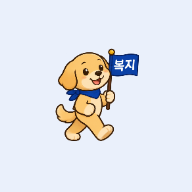
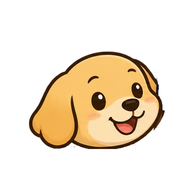
FE-디자인수정2-강준
랜딩·로고·카테고리·입력 화면 디자인 수정과 서울 전체 동 목록 추가.

- 랜딩: 문구/모션 멈추기 제거, 복길이 가운데 고정, 단계 말풍선, 볼드 처리
- 복길이: 걷는 4프레임에 서류를 안은 모습 합성(v002), 얼굴 로고·앱 아이콘
- 배경 전체 흰색, 입력창·성별 알약 버튼, 하단 버튼 불투명 고정
- 혜택 목록: 뒤로 버튼 제거, 즐겨찾기 별만, 카테고리를 실제 category 기준 8개+기타로 재편(이모티콘)
- 안내문 촬영: A4 비율 틀, 안내 문구 위치·줄 정리
- seoul.js: 25개 구 전체 동 목록(2021-04 행정동 자료)
- .gitignore에 .vercel, .env* 추가(.env.example 제외)

Changed region(s): [[0.125, 0.25, 0.875, 0.7812]]

diff --git a/FE/src/compact.css b/FE/src/compact.css
@@ -36,10 +36,10 @@
 
 .ws-ui-masthead { flex: none; min-height: 66px; display: flex; align-items: center; padding-right: 108px; }
 .ws-ui-brand { display: flex; align-items: center; gap: 8px; min-height: 48px; padding: 0; border: 0; background: none; font: inherit; color: inherit; cursor: pointer; }
-.ws-ui-brand-avatar { width: 34px; height: 34px; border-radius: 50%; background: var(--ws-color-info); display: grid; place-items: center; flex: none; }
-.ws-ui-brand-avatar .wm-bokgil-sprite { width: 26px; height: 34px; }
+.ws-ui-brand-avatar { width: 40px; height: 34px; display: grid; place-items: center; flex: none; }
+.ws-ui-brand-avatar img { width: 100%; height: auto; display: block; }
 .ws-ui-wordmark { font-size: 21px; color: var(--ws-color-primary-dark); }
-.ws-ui-wordmark-light { font-weight: 300; }
+.ws-ui-wordmark-light { font-weight: 800; }
 .ws-ui-wordmark-strong { font-weight: 800; }
 .ws-ui-demo { background: var(--ws-color-warm); color: var(--ws-color-warm-text); font-size: 12px; font-weight: 700; padding: 2px 8px; border-radius: 99px; }
 @media (max-width: 400px) { .ws-ui-demo { display: none; } }
@@ -163,13 +163,11 @@ select.ws-ui-input { cursor: pointer; }
 
 /* ---------- 로그인 ---------- */
 .ws-ui-page-welcome .ws-ui-shell {
-  background:
-    radial-gradient(circle at 80% 10%, var(--ws-color-info), transparent 55%),
-    var(--ws-color-welcome);
+  background: var(--ws-color-welcome);
 }
 .ws-login-accent { color: var(--ws-color-primary); }
 .ws-login-desc { font-size: 1.05em; text-align: left; }
-.ws-login-art { position: relative; flex: 1 1 auto; min-height: 160px; max-height: 340px; width: 100%; margin: auto; display: grid; place-items: center; overflow: hidden; }
+.ws-login-art { position: relative; flex: 1 1 auto; min-height: 160px; width: 100%; margin: 0; display: grid; place-items: center; overflow: hidden; }
 .ws-login-halo { position: absolute; border-radius: 50%; }
 .ws-login-halo-a { width: 78%; aspect-ratio: 1; background: var(--ws-color-halo); }
 .ws-login-halo-b { width: 56%; aspect-ratio: 1; background: var(--ws-color-halo-warm); }
@@ -184,8 +182,7 @@ select.ws-ui-input { cursor: pointer; }
 .ws-login-float-02 { top: 42%; right: 0; animation-delay: -1.3s; }
 .ws-login-float-03 { bottom: 12%; left: 0; animation-delay: -2.6s; }
 @keyframes ws-login-bob { 50% { transform: translateY(-6px); } }
-.wm-bokgil-guide { position: relative; height: 92%; max-width: 54%; aspect-ratio: 3 / 4; animation: wm-bokgil-stroll 6s ease-in-out infinite; }
-.wm-bokgil-path { position: absolute; left: 8%; bottom: 10%; width: 84%; height: 3px; background: repeating-linear-gradient(90deg, var(--ws-color-road) 0 14px, transparent 14px 28px); background-size: 28px 3px; animation: wm-bokgil-road 0.8s linear infinite; }
+.wm-bokgil-guide { position: relative; height: 100%; max-width: 60%; aspect-ratio: 3 / 4; }
 .ws-login-caption { display: flex; align-items: center; justify-content: space-between; gap: 8px; color: var(--ws-color-muted); font-size: 0.9em; }
 .ws-login-actions { display: grid; gap: 8px; }
 .ws-login-kakao { background: var(--ws-color-kakao); border-color: var(--ws-color-kakao); color: var(--ws-color-kakao-text); }
@@ -207,8 +204,6 @@ select.ws-ui-input { cursor: pointer; }
   50% { background-position: 66.666667% 0; }
   75% { background-position: 100% 0; }
 }
-@keyframes wm-bokgil-stroll { 0%, 100% { transform: translateX(-9px); } 50% { transform: translateX(9px); } }
-@keyframes wm-bokgil-road { to { background-position: -28px 0; } }
 
 .ws-progress-bokgil { display: flex; align-items: center; gap: 10px; padding-top: 46px; }
 .ws-progress-bokgil-track { position: relative; flex: 1; height: 13px; background: var(--ws-color-track); border: 1px solid var(--ws-color-line); border-radius: 99px; }
@@ -237,7 +232,8 @@ select.ws-ui-input { cursor: pointer; }
 .wm-categories { display: grid; grid-template-columns: repeat(2, minmax(0, 1fr)); gap: 8px; }
 .wm-categories button { min-height: 48px; padding: 8px 12px; font: inherit; font-weight: 700; color: var(--ws-color-text); background: var(--ws-color-card); border: 1px solid var(--ws-color-chip-line); border-radius: 99px; cursor: pointer; }
 .wm-categories button[aria-pressed='true'] { color: #fff; background: var(--ws-color-primary-soft); border-color: var(--ws-color-primary-soft); }
-.wm-categories-modal button { display: grid; gap: 2px; border-radius: 16px; }
+.wm-categories-modal button { display: grid; justify-items: center; gap: 2px; border-radius: 16px; }
+.wm-categories-modal button i { font-style: normal; font-size: 1.6em; line-height: 1.1; }
 .wm-categories-modal button span { font-size: 0.85em; font-weight: 400; color: var(--ws-color-muted); }
 .wm-cat-all { grid-column: 1 / -1; }
 
@@ -302,7 +298,6 @@ select.ws-ui-input { cursor: pointer; }
 
 /* ---------- 모션 감소 ---------- */
 @media (prefers-reduced-motion: reduce) {
-  .wm-bokgil-sprite, .wm-bokgil-guide, .wm-bokgil-path { animation: none; }
   .wm-slider-track, .ws-progress-bokgil-fill, .ws-progress-bokgil-walker, .ws-ui-button { transition: none; }
   .ws-ui-button:not(:disabled):hover { transform: none; }
 }

diff --git a/FE/src/screens/BenefitsScreen.jsx b/FE/src/screens/BenefitsScreen.jsx
@@ -5,13 +5,26 @@ import { mockCatalog, mockResult } from '../mock.js'
 import { ageText, buildAlerts, daysLeft, judge, koreanDate } from '../alerts.js'
 import { fetchPolicies, hasBackend } from '../api.js'
 
-const CATEGORIES = ['연금', '지원금', '대출', '돌봄/서비스']
+const MAX_SHOWN = 30
+const GROUPS = [
+  ['생활·금융', '💰', ['서민금융', '생활지원'], /연금|대출|융자|수당|지원금|바우처/],
+  ['주거·에너지', '🏠', ['주거', '에너지'], /주거|임대|월세|전세|난방|에너지/],
+  ['임신·출산·보육', '👶', ['임신·출산', '보육', '입양·위탁'], /출산|임산부|산모|신생아|보육|양육|영유아|아동/],
+  ['교육', '🎓', ['교육'], /교육|학자금|장학|학습/],
+  ['일자리', '💼', ['일자리'], /일자리|취업|창업|고용/],
+  ['건강', '🩺', ['신체건강', '정신건강'], /건강|접종|검진|치료|의료|재활/],
+  ['돌봄·안전', '🤝', ['보호·돌봄', '안전·위기', '법률'], /돌봄|서비스|요양|안부|활동지원|위기|폭력|노숙/],
+  ['문화·여가', '🎭', ['문화·여가'], /문화|여가|체육|관광/],
+]
+const OTHER = ['기타', '📌']
+export const CATEGORIES = [...GROUPS.map(([label, icon]) => [label, icon]), OTHER]
+export const iconOf = (label) => CATEGORIES.find(([l]) => l === label)?.[1] ?? ''
 
 export function categoryOf(p) {
-  if (p.name.includes('연금')) return '연금'
-  if (/대출|융자/.test(p.name)) return '대출'
-  if (/돌봄|서비스|요양/.test(p.name)) return '돌봄/서비스'
-  return '지원금'
+  const themes = (p.category ?? '').split(',').map((t) => t.trim())
+  const g = [...GROUPS.slice(1), GROUPS[0]].find(([, , list]) => themes.some((t) => list.includes(t)))
+  if (g) return g[0]
+  return (GROUPS.find(([, , , re]) => re.test(p.name)) ?? OTHER)[0]
 }
 
 function Slider({ items, idx, setIdx, favorites, onFavorite, onOpen }) {
@@ -98,7 +111,10 @@ export default function BenefitsScreen({ profile, category, setCategory, alertOn
   const real = (cat.rows ?? []).filter(mine)
   const sample = !loading && real.length === 0
   const list = sample ? mockResult.programs.filter(mine).map((p) => ({ ...p, isSample: true })) : real
-  const shown = list.filter((p) => category === '전체' || categoryOf(p) === category)
+  const matched = [...new Map(list.map((p) => [p.name, p])).values()]
+    .filter((p) => category === '전체' || categoryOf(p) === category)
+    .sort((a, b) => Number(b.gu === profile.gu) - Number(a.gu === profile.gu))
+  const shown = matched.slice(0, MAX_SHOWN)
   const current = Math.min(idx, Math.max(0, shown.length - 1))
 
   useEffect(() => {
@@ -186,7 +202,7 @@ export default function BenefitsScreen({ profile, category, setCategory, alertOn
       )}
       {sample && <p className="ws-ui-note" role="note">현재 신청 가능한 실제 혜택이 없어 이해를 돕기 위한 가데이터 예시를 보여드려요.</p>}
       <div className="wm-category-row">
-        <strong>{category ?? '카테고리를 선택해 주세요'}</strong>
+        <strong>{category ? `${category === '전체' ? '🗂' : iconOf(category)} ${category}` : '카테고리를 선택해 주세요'}</strong>
         <button ref={triggerRef} type="button" className="ws-ui-button ws-ui-secondary" onClick={() => dialogRef.current.showModal()}>다른 카테고리 살펴보기</button>
       </div>
       {cat.error && <p className="ws-ui-error" role="alert">혜택 목록을 불러오지 못했어요. 잠시 후 다시 시도해 주세요.</p>}
@@ -199,6 +215,9 @@ export default function BenefitsScreen({ profile, category, setCategory, alertOn
           <p>다른 카테고리를 선택하거나 안내문을 촬영해 주세요.</p>
         </Card>
       )}
+      {matched.length > shown.length && (
+        <p className="ws-ui-muted">혜택이 많아서 앞의 {MAX_SHOWN}개만 보여드려요. 다른 카테고리도 살펴보세요.</p>
+      )}
       <p className="ws-ui-muted wm-privacy">소득·거주 조건에 따라 실제 대상은 다를 수 있어요.</p>
 
       <dialog ref={dialogRef} className="wm-dialog" aria-labelledby="wm-cat-title" onCancel={(e) => { e.preventDefault(); closeCategories() }}>
@@ -208,8 +227,9 @@ export default function BenefitsScreen({ profile, category, setCategory, alertOn
         </div>
         <p>관심 있는 카테고리를 골라주세요.<br />나중에 다른 혜택도 살펴볼 수 있어요.</p>
         <div className="wm-categories wm-categories-modal">
-          {['전체', ...CATEGORIES].map((label) => (
+          {[['전체', '🗂'], ...CATEGORIES].map(([label, icon]) => (
             <button key={label} type="button" className={label === '전체' ? 'wm-cat-all' : undefined} onClick={() => pick(label)}>
+              <i aria-hidden="true">{icon}</i>
               <strong>{label}</strong>
               <span>{count(label)}개 혜택</span>
             </button>

diff --git a/FE/src/api.js b/FE/src/api.js
@@ -2,11 +2,11 @@ import { GU } from './seoul.js'
 import { deadlineText, koreanDate } from './alerts.js'
 import { supabase } from './supabaseClient.js'
 
-const URL = import.meta.env?.VITE_SUPABASE_URL
+const SUPABASE_URL = import.meta.env?.VITE_SUPABASE_URL
 const KEY = import.meta.env?.VITE_SUPABASE_PUBLISHABLE_KEY || import.meta.env?.VITE_SUPABASE_ANON_KEY
 const ANALYZE_URL = import.meta.env?.VITE_ANALYZE_URL
 
-export const hasBackend = Boolean(URL && KEY)
+export const hasBackend = Boolean(SUPABASE_URL && KEY)
 export const hasAnalyze = Boolean(ANALYZE_URL)
 
 const authHeaders = async () => {
@@ -22,21 +22,28 @@ export const toProgram = (r) => ({
   name: r.name,
   summary: r.summary ?? '',
   eligibility: r.eligibility ?? '',
-  minAge: r.min_age ?? undefined,
-  maxAge: r.max_age ?? undefined,
-  gu: r.source === 'local' ? r.sgg || undefined : undefined,
+  category: r.category ?? '',
+  minAge: r.minAge ?? undefined,
+  maxAge: r.maxAge ?? undefined,
+  gu: GU.includes(r.gu) ? r.gu : undefined,
   deadline: r.deadline ?? '',
   office: r.office ?? '',
   docs: r.docs ?? [],
   source: '공공데이터포털 · 복지서비스',
-  sourceUrl: r.detail_link ?? '',
+  sourceUrl: r.sourceUrl ?? '',
 })
 
+const POLICY_SELECT = 'name,summary,category,minAge:min_age,maxAge:max_age,deadline,docs,office,eligibility,sourceUrl:detail_link,gu:sgg'
+
+// 백엔드 요청 형식: apikey만 보내고(Authorization 없음), eligibility가 비어 있는 정책은 제외한다.
 export async function fetchPolicies({ age }) {
-  const filter = `(or(min_age.is.null,min_age.lte.${age}),or(max_age.is.null,max_age.gte.${age}),or(source.eq.central,ctpv.eq.서울특별시))`
-  const res = await fetch(`${URL}/rest/v1/policies?select=*&limit=500&and=${encodeURIComponent(filter)}`, {
-    headers: await authHeaders(),
+  const params = new URLSearchParams({
+    select: POLICY_SELECT,
+    limit: '1000',
+    and: `(or(min_age.is.null,min_age.lte.${age}),or(max_age.is.null,max_age.gte.${age}))`,
+    eligibility: 'not.is.null',
   })
+  const res = await fetch(`${SUPABASE_URL}/rest/v1/policies?${params}`, { headers: { apikey: KEY } })
   if (!res.ok) throw new Error(`policies ${res.status}`)
   return (await res.json()).map(toProgram)
 }
@@ -97,7 +104,7 @@ export function fromModel(raw) {
 export async function analyzeRemote({ file, signal }) {
   const body = new FormData()
   body.append('file', file)
-  const sameProject = URL && new URL(ANALYZE_URL, window.location.origin).origin === new URL(URL).origin
+  const sameProject = SUPABASE_URL && new URL(ANALYZE_URL, window.location.origin).origin === new URL(SUPABASE_URL).origin
   const res = await fetch(ANALYZE_URL, { method: 'POST', body, signal, headers: sameProject ? await authHeaders() : {} })
   if (!res.ok) {
     const code = await res.json().then((j) => j.code, () => undefined)

diff --git a/FE/src/components/UI.jsx b/FE/src/components/UI.jsx
@@ -1,4 +1,3 @@
-import AnimatedBokgil from './AnimatedBokgil.jsx'
 
 export function Button({ kind = 'primary', type = 'button', className = '', ...props }) {
   return <button type={type} className={`ws-ui-button ws-ui-${kind} ${className}`.trim()} {...props} />
@@ -19,7 +18,7 @@ export function Screen({ title, onBack, onHome, header, children, footer, varian
       <div className="ws-ui-shell">
         <header className="ws-ui-masthead">
           <button type="button" className="ws-ui-brand" onClick={() => onHome?.()} aria-label="복지메이트 홈으로">
-            <span className="ws-ui-brand-avatar"><AnimatedBokgil still /></span>
+            <span className="ws-ui-brand-avatar"><img src={`${import.meta.env.BASE_URL}codex-images/bokgil-face.png`} alt="" /></span>
             <span className="ws-ui-wordmark">
               <span className="ws-ui-wordmark-light">복지</span>
               <span className="ws-ui-wordmark-strong">메이트</span>
@@ -52,10 +51,12 @@ export const STATUS = {
   blurry: '사진이 흐려요. 카메라를 잠시 멈추고 글자가 또렷해졌을 때 다시 찍어 주세요.',
   cropped: '안내문 일부가 잘렸어요. 문서의 네 모서리가 모두 보이게 다시 찍어 주세요.',
   timeout: '응답이 늦어지고 있어요. 잠시 후 다시 시도해 주세요.',
+  tooLarge: '파일이 너무 커요. 더 작은 사진이나 PDF로 올려 주세요.',
+  unsupported: '이 파일은 읽을 수 없어요. 사진(JPG, PNG)이나 PDF로 올려 주세요.',
   camera: '카메라를 열 수 없어요. 저장된 사진을 올려주세요.',
 }
 
-const CODES = { UNREADABLE: 'unreadable', BLURRY: 'blurry', CROPPED: 'cropped', TIMEOUT: 'timeout' }
+const CODES = { UNREADABLE: 'unreadable', BLURRY: 'blurry', CROPPED: 'cropped', TIMEOUT: 'timeout', TOO_LARGE: 'tooLarge', UNSUPPORTED: 'unsupported' }
 export const statusFor = (err) => CODES[err?.code] ?? 'error'
 
 export function StatusBox({ state, action, onAction }) {

diff --git a/FE/src/screens/LoginScreen.jsx b/FE/src/screens/LoginScreen.jsx
@@ -26,7 +26,7 @@ export default function LoginScreen({ onLogin, error }) {
         </div>
       }
     >
-      <p className="ws-login-desc">어려운 안내문부터 준비 서류까지.<br />길잡이 복길이가 함께 걸어갈게요.</p>
+      <p className="ws-login-desc">어려운 안내문부터 준비 서류까지.<br />길잡이 <strong>복길이</strong>가 함께 걸어갈게요.</p>
       <div className="ws-login-art" aria-hidden="true">
         <span className="ws-login-halo ws-login-halo-a" />
         <span className="ws-login-halo ws-login-halo-b" />
@@ -36,7 +36,6 @@ export default function LoginScreen({ onLogin, error }) {
           <circle cx="258" cy="62" r="7" />
         </svg>
         <div className="wm-bokgil-guide"><AnimatedBokgil /></div>
-        <div className="wm-bokgil-path" />
         {STEPS.map(([n, t, d]) => (
           <div key={n} className={`ws-login-float ws-login-float-${n}`}>
             <span><strong>{t}</strong>{d}</span>

diff --git a/FE/src/alerts.test.js b/FE/src/alerts.test.js
@@ -57,9 +57,10 @@ test('docGuide', () => {
 
 test('toProgram', async () => {
   const { toProgram } = await import('./api.js')
-  const p = toProgram({ name: 'X', min_age: 65, max_age: null, source: 'local', sgg: '마포구', deadline: null, docs: null })
-  assert.deepEqual([p.minAge, p.maxAge, p.gu, p.deadline, p.docs], [65, undefined, '마포구', '', []])
-  assert.equal(toProgram({ name: 'Y', source: 'central', sgg: '종로구' }).gu, undefined)
+  const p = toProgram({ name: 'X', minAge: 65, maxAge: null, gu: '마포구', deadline: null, docs: null, office: null, sourceUrl: 'u' })
+  assert.deepEqual([p.minAge, p.maxAge, p.gu, p.deadline, p.docs, p.office, p.sourceUrl], [65, undefined, '마포구', '', [], '', 'u'])
+  assert.equal(toProgram({ name: 'Y', gu: '서울특별시교육청' }).gu, undefined)
+  assert.equal(toProgram({ name: 'Z', gu: null }).gu, undefined)
 })
 
 test('scan helpers', async () => {

diff --git a/FE/src/tokens.css b/FE/src/tokens.css
@@ -1,5 +1,5 @@
 :root {
-  --ws-color-bg: #f8f7f3;
+  --ws-color-bg: #ffffff;
   --ws-color-text: #202c40;
   --ws-color-primary: #2448a5;
   --ws-color-primary-text: #ffffff;
@@ -15,14 +15,14 @@
   --ws-color-warm-text: #794019;
   --ws-color-danger: #a33128;
   --ws-color-success: #286442;
-  --ws-color-page: #edece7;
+  --ws-color-page: #f1f3f7;
   --ws-color-shell-line: #e4e3df;
   --ws-color-chip-line: #d6deeb;
   --ws-color-track: #e7eaf1;
   --ws-color-road: #9bafd5;
   --ws-color-star: #f6c34a;
   --ws-color-star-bg: #fff2cb;
-  --ws-color-welcome: #f2f5fc;
+  --ws-color-welcome: #ffffff;
   --ws-color-halo: #e2eaf9;
   --ws-color-halo-warm: #f9f4ea;
   --ws-color-kakao: #fee500;

diff --git a/FE/src/App.jsx b/FE/src/App.jsx
@@ -135,6 +135,7 @@ export default function App() {
   }
 
   const saveProfileRemote = async (p) => {
+    if (!userId && import.meta.env.DEV) return saveProfile(p)
     if (!userId) throw new Error('로그인이 필요합니다')
     await storeProfile(userId, p)
     saveProfile(p)
@@ -216,6 +217,10 @@ export default function App() {
   }
 
   const login = async (provider) => {
+    if (import.meta.env.DEV && (!supabase || window.location.search.includes('demo'))) {
+      setScreen('draft')
+      return
+    }
     if (provider !== 'google') {
       setAuthError('이 로그인 방법은 준비 중이에요. 구글로 시작해 주세요.')
       return

diff --git a/FE/src/components/AnimatedBokgil.jsx b/FE/src/components/AnimatedBokgil.jsx
@@ -1,4 +1,4 @@
-const SHEET = import.meta.env.BASE_URL + 'codex-images/bokgil-retriever-walk-v001.png'
+const SHEET = import.meta.env.BASE_URL + 'codex-images/bokgil-retriever-walk-v002.png'
 
 export default function AnimatedBokgil({ className = '', still = false }) {
   return (

diff --git a/FE/public/sw.js b/FE/public/sw.js
@@ -1,4 +1,4 @@
-const CACHE = 'bokji-v1'
+const CACHE = 'bokji-v2'
 
 self.addEventListener('install', () => self.skipWaiting())
 

diff --git a/FE/프론트-강준.md b/FE/프론트-강준.md
@@ -32,7 +32,7 @@
 - [x] 모델 연동 준비: `src/api.js`의 `fromModel`이 모델 팀 출력(`easySummary, programs[19개 키]`)을 화면 형식으로 변환(기한 원문 `periodText`, 지원 금액 `benefit`, 소득·재산 원문, 조건부 서류 `extraDocs` 반영). 서울 구가 아닌 지역(`gu`)은 판정에 쓰지 않고 "거주 지역"으로 표시. 모델 샘플 4건(`src/fixtures/model-sample.json`)으로 화면 확인, 파일 이름에 `model-1`~`model-4`를 넣어 올리면 재현
 - [x] `analyzeRemote`: `VITE_ANALYZE_URL`이 있으면 `FormData(file)`로 POST(요청 형식은 가정, 백엔드와 확정 필요), 실패 시 `{ code }`로 사유 구분. 없으면 목업
 - [ ] 실제 `analyze` 주소를 받아 PDF 업로드·촬영 테스트
-- [ ] 업로드 전 이미지 축소(긴 변 1568px, JPEG)
+- [x] 업로드 전 이미지 축소(긴 변 1568px, JPEG): `src/scan.js`로 구현됨(3단계)
 - [ ] 음성 안내(Web Speech) — 명세 8장은 만들지 않기로 한 항목이라 별도 결정 필요
 
 ## 백엔드·모델에 요청 (프론트가 이렇게 쓰고 있으니 다르면 알려주세요)
@@ -65,9 +65,41 @@
 - 소셜 로그인(실제 인증)과 Supabase 연결을 위해 백엔드 담당이 프론트 파일을 직접 수정하기로 함(강준 승인). 범위는 `LoginScreen.jsx`, `App.jsx`의 로그인 처리, 새 Supabase 연결 파일. 수정 후 강준이 pull 받아 빌드·화면 확인
 - 실제 로그인이 생기면 로그인 화면의 "실제 로그인 없이 체험해요" 문구와 개인정보 원칙(생년월일 원본 미저장, 닉네임만) 확인 필요
 
+## 백엔드 로그인 연동 확인 (pull 후 점검)
+
+- 조계진이 구글 로그인을 Supabase OAuth로 연결(`src/supabaseClient.js`, `App.jsx`). 카카오·네이버 버튼은 "준비 중" 안내. 패키지 `@supabase/supabase-js`가 추가되어 pull 후 `npm install` 필요(명세의 "외부 라이브러리 금지"는 팀 결정으로 예외)
+- 점검에서 찾아 고침: `api.js`의 `const URL`이 브라우저 `new URL()`을 가려 `analyzeRemote`가 항상 실패하던 버그 → `SUPABASE_URL`로 이름 변경
+- 고침: Supabase 설정이 없으면 로그인 버튼이 모두 오류만 내서 앱에 들어갈 수 없었음 → 개발 서버(`npm run dev`)에서만 설정이 없을 때 내 정보 화면으로 진행. 배포본은 그대로 엄격
+- 확인: 가짜 `analyze` 서버로 `multipart` 호출, 응답 변환, `422 {code:BLURRY}` 안내까지 동작. 실제 구글 로그인은 Supabase·Google 설정과 배포 환경변수 반영 후 브라우저에서 확인해야 함(미확인)
+
+## 점검 기록 (pull 후)
+
+- 다시 적용: `api.js`의 `URL` 이름 충돌 수정, 개발 서버 로그인 보정(`App.jsx`). pull 과정에서 로컬 수정이 사라졌던 것을 복구함
+- 서버 오류 코드 `TOO_LARGE`(413), `UNSUPPORTED`(415)를 안내 문구로 연결. `UNAUTHORIZED`는 서버 설정 문제라 일반 오류로 표시
+- 확인 필요: 프로필 저장(`profile.js`)으로 생년월일이 Supabase에 저장됨. `README.md`와 `제출자료`(기획서·소개 문서)는 "생년월일은 저장하지 않고 서버로 보내지 않는다"고 적혀 있어 제출 전에 문서나 저장 방식을 맞춰야 함
+
+## 혜택 목록 연결 (유예찬 요청 반영)
+
+- `fetchPolicies`를 요청 형식대로 변경: `select` 별칭(`minAge`, `maxAge`, `sourceUrl`, `gu`), 나이 조건, `eligibility=not.is.null`, 헤더는 `apikey`만(Authorization 없음)
+- 실제 호출 확인: 481건(HTTP 200). 마포구 사용자 기준 153건이 보임(나이·기한·제출처·서류가 모두 null이라 거를 수 없음)
+- 화면: 같은 이름 중복 제거, 내 구 정책을 앞에 정렬, 한 번에 30개까지만 표시("혜택이 많아서 앞의 30개만 보여드려요"). 서류·기한·제출처가 비어 있으면 "확인하세요" 문구로 대체
+- 구(`gu`)는 서울 25개 구 이름일 때만 조건으로 사용(`서울특별시교육청`, `-` 등은 제외 조건 없음으로 처리)
+- 개발 서버 전용: 주소 끝에 `?demo`를 붙이면 로그인과 프로필 저장을 건너뜀(배포본에는 없음)
+- 모델 담당의 추출(나이, 기한, 제출처, 서류)이 채워지면 필터와 표시가 자동으로 좋아짐
+
 ## 알려진 사항
 
 - 혜택 목록 필터를 명세의 `ageMatches` 대신 `judge`(나이+구)로 바꿈. 실제 지자체 데이터에서 다른 구 제도가 섞이지 않게 하려는 것.
 
 - `npm audit`: esbuild <=0.24.2 / vite <=6.4.3 (개발 서버 한정, GHSA-67mh-4wv8-2f99). 해결은 Vite 8이라 스택과 충돌해 유지. `server.host: true`라 개발 서버가 같은 네트워크에 열려 있다.
 - 명세와 다르게 한 곳: 카메라 "촬영" 버튼은 카메라를 못 연 경우에만 비활성(명세대로면 "잠시 후 다시 눌러주세요" 안내 뒤 버튼이 영구 비활성), 서류 행의 "어디서 받아요?" 버튼은 `label` 밖에 둠(안에 두면 누를 때 체크됨), 영어 접근성 라벨은 한국어로 변경, 주석 최소화(CLAUDE.md 규칙 우선).
+
+## 디자인 수정 (2026-11-21)
+
+- 랜딩: 안내 문구·모션 멈추기 버튼 제거(모션은 항상 재생), 복길이 가운데 고정·점선 길 제거, 단계 안내를 복길이 주변 말풍선으로 배치, "복지메이트"·"복길이" 볼드
+- 복길이 일러스트: 걷는 4프레임에 서류를 안은 모습 합성(`bokgil-retriever-walk-v002.png`, 원본 v001 유지). 이미지 생성 도구가 없어 Pillow로 합성했으며 질감이 원본과 다를 수 있음
+- 로고·앱 아이콘: 복길이 얼굴만 잘라 사용(`bokgil-face.png`, `icon-192/512.png`). 배경은 전체 흰색으로 변경(`tokens.css`)
+- 정보 입력: 입력창·성별(알약 버튼) 디자인, 서울 25개 구 전체 동 목록(`seoul.js`, 2021-04 행정동 자료이므로 최신 개편 반영 여부 확인 필요), 마이페이지 하단 버튼 불투명 고정
+- 혜택 목록: 뒤로 버튼 제거, 카드 즐겨찾기 별만 표시·안내 문구 정리, 카테고리를 실제 `category` 주제 기준 8개+기타로 재편하고 이모티콘 추가(생활·금융/주거·에너지/임신·출산·보육/교육/일자리/건강/돌봄·안전/문화·여가)
+- 안내문 촬영: A4 비율 틀, 팁과 개인정보 안내 위치·줄 정리
+- 서류 안내 박스(`docsNote`) 제거(가데이터), 혜택 설명·신청 조건 표시 축약(OCR 연결 후 재검토 예정)
